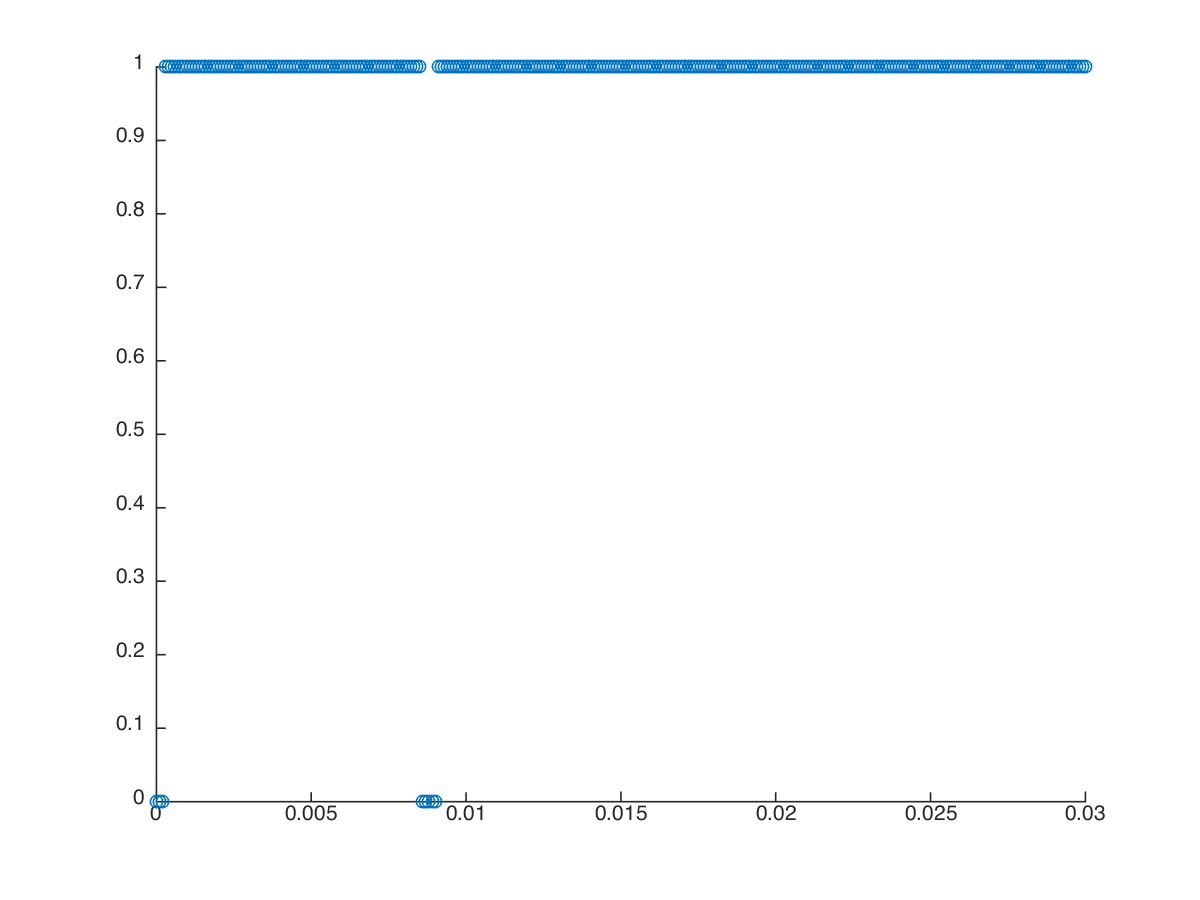
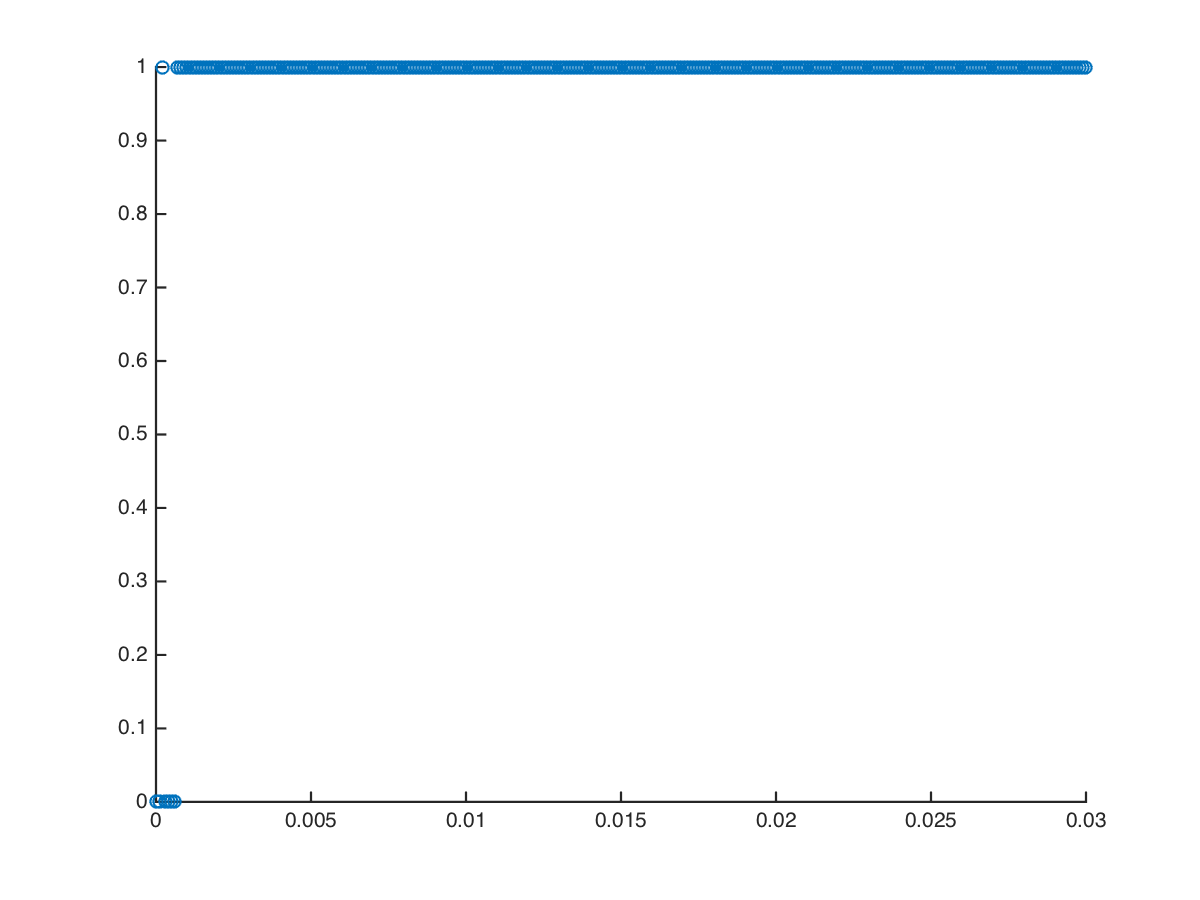
Added script for simulating a heterogeneous network and analyzing it. Calculates fano factor, coefficient of variation and interspike interval distribution.

diff --git a/dev.m b/dev.m
@@ -25,6 +25,10 @@ t = 0:stepsize:T;
 % xp = cos(t)*0.05;
 % xp = xp';
 
+% constant input
+x = ones(N, 1) * 0.0005;
+xp = zeros(N, 1);
+
 % random walk input
 x = abs(cumsum(randn(N, 1)));
 x = x * 0.0005;
@@ -114,11 +118,11 @@ plot(t, x)
 plot(t, xhat)
 %scatter(t, o)
 legend('V', 'x', 'xhat')
-print('sing_F1_g','-dpng')
+% print('sing_F1_g','-dpng')
 
 figure
 scatter(t, o)
-print('sing_F2_g','-dpng')
+% print('sing_F2_g','-dpng')
 
 figure
 hold on
@@ -128,11 +132,11 @@ plot(t, xhat2)
 plot(t, xhat3)
 %scatter(t, o2)
 legend('V2', 'x', 'xhat2', 'xhat3')
-print('sing_F3_g','-dpng')
+% print('sing_F3_g','-dpng')
 
 figure
 scatter(t, o2)
-print('sing_F4_g','-dpng')
+% print('sing_F4_g','-dpng')
 
 %% Homogeneous network of neurons
 
@@ -267,7 +271,7 @@ plot(t, x)
 plot(t, xhat)
 plot(t, xhat2)
 legend('x', 'xhat', 'xhat2')
-print('pop_F1','-dpng')
+% print('pop_F1','-dpng')
 
 % spike train
 figure
@@ -276,7 +280,7 @@ scatter(I, J)
 axis([0 N+1 0 K+1])
 xlabel('time')
 ylabel('neuron')
-print('pop_F2','-dpng')
+% print('pop_F2','-dpng')
 
 % spike train
 figure
@@ -285,4 +289,157 @@ scatter(I, J)
 axis([0 N+1 0 K+1])
 xlabel('time')
 ylabel('neuron')
-print('pop_F3','-dpng')
+% print('pop_F3','-dpng')
+
+%% Heterogeneous network of neurons
+
+% number of neurons in the total population
+K = 100; % half have positive, half have negative weights
+
+% regularization weight
+mu = 1e-6;
+
+% current membrane voltage
+v = zeros(K,1);
+
+% output weight
+w = randn(K, 1) * 0.1;
+
+% right now, we use two ways to calculate voltages, that is why we have two
+% spike trains, voltage and prediction matrices
+%
+% the first way is using the differential equation for voltage (eqn. 15 in
+% the paper). however, it does not work as well as the second way. I don't
+% know why exactly, but I think it has something to do with how we update
+% the voltages once a neuron fires.
+%
+% the second way is using the direct definition for voltage (difference
+% between input and prediction of the population). This method works pretty
+% well.
+
+% THINK: why don't we get the same results from different ways of
+% calculating voltage (V and V2)?
+
+% spike train
+o = zeros(K,N);
+o2 = zeros(K,N);
+
+% v(t)
+V = zeros(K,N);
+V2 = zeros(K,N);
+
+% xhat(t) (prediction)
+xhat = zeros(K,1);
+xhat2 = zeros(K,1);
+
+% this expression is used multiple times in updates; it determines how much
+% one spike changes the voltage.
+reset_amount = (w*w' + mu*eye(K));
+
+for i = 2:N
+    % current xhat. we need this for the second voltage update method.
+    xhatc = xhat2(i-1);
+    
+    % if we update all neurons at the same time and let all the neurons
+    % that exceed threshold fire, we get synchronous firing. If a neuron
+    % fires, it should reset its own voltage and others because now the 
+    % network makes a better prediction.
+    % in other words, to get asynchronous spiking, we need to let only a 
+    % single neuron fire at one time, and update the voltages after each
+    % spike.
+    % in the paper, they also mention adding noise to voltages will make
+    % them fire asynchronously but we still need to fire one spike at a
+    % time. Our simulations so far show that we don't need to add noise.
+    
+    % try firing K times (K is arbitrary here, but it makes sense to make 
+    % it as large as the number of neurons)
+    for dt = 1:K 
+        % ----------------------------------------------------------------
+        % Voltage Update Method 1
+        % membrane voltage update equation
+        dv = -v + (w * (x(i-1) + xp(i-1))) - (reset_amount*o(:, i-1));
+        v = v + (stepsize * dv);
+        V(:,i) = v;
+        
+        % fire a single neuron, the one with maximum difference
+        diff = (V(:,i) / stepsize) - diag(0.5 * (reset_amount));
+        % pick all the neurons with maximum voltage
+        if max(diff) > 0
+            maxk = find(diff==max(diff));
+            % pick one randomly and fire
+            k = maxk(randi(numel(maxk)));
+            o(k, i) = 1;
+            % update prediction
+            % WARNING: I am not sure if this is the right way to reset!
+            v = v - (stepsize * reset_amount(:,k));
+        end
+        % ----------------------------------------------------------------
+        
+        % ----------------------------------------------------------------
+        % Voltage Update Method 2
+        % second way of calculating voltage (below Eqn. 14 in the paper)
+        % the second term is mu*o_bar. o_bar is given below eqn. 6 in the
+        % paper
+        V2(:,i) = w*(x(i) - xhatc) - (mu * exp(-t(i)) * o2(:,1:i) * exp(t(1:i))');
+        
+        % NOTE: this does not prevent a neuron from firing multiple times
+        % in one step (of course that is not possible, but it will try to
+        % fire). this does not seem to be a problem though.
+        
+        % fire a single neuron, the one with maximum difference
+        diff = (V2(:,i) / stepsize) - diag(0.5 * (w*w' + (mu*eye(K))));
+        % pick all the neurons with maximum voltage
+        if max(diff) > 0
+            maxk = find(diff==max(diff));
+            % pick one randomly and fire
+            k = maxk(randi(numel(maxk)));
+            o2(k, i) = 1;
+            % update prediction
+            dxhatc = -xhatc + w(k);
+            xhatc = xhatc + (stepsize * dxhatc);
+        end
+        % ----------------------------------------------------------------
+        
+    end
+    
+    % calculate prediction 
+    xhat(i) = exp(-t(i)) * (stepsize * (w' * o(:, 1:i) * exp(t(1:i))'));
+    xhat2(i) = exp(-t(i)) * (stepsize * (w' * o2(:, 1:i) * exp(t(1:i))'));
+    
+    % yet another way to calculate the prediction is to 
+    % discretize the differential equation xhat' = -xhat + w*o
+    % it gives the same prediction with the direct way of calculating
+    % predictions
+    % dxh = -xh + w'*o(:, i);
+    % xh = xh + (stepsize * dxh);
+    % xhat2(i) = xh;
+    
+    
+end
+
+figure
+hold on
+plot(t, x)
+plot(t, xhat)
+plot(t, xhat2)
+legend('x', 'xhat', 'xhat2')
+% print('pop_F1','-dpng')
+
+% spike train
+figure
+[I,J] = find(o'>0);
+scatter(I, J)
+axis([0 N+1 0 K+1])
+xlabel('time')
+ylabel('neuron')
+% print('pop_F2','-dpng')
+
+% spike train
+figure
+[I,J] = find(o2'>0);
+scatter(I, J)
+axis([0 N+1 0 K+1])
+xlabel('time')
+ylabel('neuron')
+% print('pop_F3','-dpng')
+

diff --git a/simulate_heterogeneous_network.m b/simulate_heterogeneous_network.m
@@ -1,0 +1,74 @@
+function [V, spike_train, xhat] = simulate_heterogeneous_network(T, stepsize, x, K, mu, w)
+% K: number of neurons in the total population
+% mu: regularization weight
+% T: simulation time (in seconds)
+% stepsize: step size (in seconds)
+
+% number of time points
+N = (T/stepsize)+1;
+
+% time input
+t = 0:stepsize:T;
+
+% membrane voltage v(t)
+V = zeros(K,N);
+
+% spike train
+spike_train = zeros(K,N);
+
+% xhat(t) (prediction)
+xhat = zeros(K,1);
+
+if nargin < 6 % w is not provided
+    % randomly initialize output weight
+    w = randn(K, 1) * 0.1;
+end
+
+for i = 2:N
+    % current xhat. we need this for the second voltage update method.
+    xhatc = xhat(i-1);
+    
+    % if we update all neurons at the same time and let all the neurons
+    % that exceed threshold fire, we get synchronous firing. If a neuron
+    % fires, it should reset its own voltage and others because now the 
+    % network makes a better prediction.
+    % in other words, to get asynchronous spiking, we need to let only a 
+    % single neuron fire at one time, and update the voltages after each
+    % spike.
+    % in the paper, they also mention adding noise to voltages will make
+    % them fire asynchronously but we still need to fire one spike at a
+    % time. Our simulations so far show that we don't need to add noise.
+    
+    % try firing K times (K is arbitrary here, but it makes sense to make 
+    % it as large as the number of neurons)
+    for dt = 1:K 
+        
+        % Voltage Update (below Eqn. 14 in the paper)
+        % the second term is mu*o_bar. o_bar is given below eqn. 6 in the
+        % paper
+        V(:,i) = w*(x(i) - xhatc) - (mu * exp(-t(i)) * spike_train(:,1:i) * exp(t(1:i))');
+        
+        % NOTE: this does not prevent a neuron from firing multiple times
+        % in one step (of course that is not possible, but it will try to
+        % fire). this does not seem to be a problem though.
+        
+        % fire a single neuron, the one with maximum difference
+        diff = (V(:,i) / stepsize) - diag(0.5 * (w*w' + (mu*eye(K))));
+        % pick all the neurons with maximum voltage
+        if max(diff) > 0
+            maxk = find(diff==max(diff));
+            % pick one randomly and fire
+            k = maxk(randi(numel(maxk)));
+            spike_train(k, i) = 1;
+            % update prediction
+            dxhatc = -xhatc + w(k);
+            xhatc = xhatc + (stepsize * dxhatc);
+        end
+        
+    end
+    
+    % calculate prediction 
+    xhat(i) = exp(-t(i)) * (stepsize * (w' * spike_train(:, 1:i) * exp(t(1:i))'));
+    
+end
+end

diff --git a/analyze_network.m b/analyze_network.m
@@ -1,0 +1,71 @@
+% simulation time (in seconds)
+T = 0.03;
+% step size
+stepsize = 0.1*(1/1000); % 0.1 msecs
+% number of time points
+N = (T/stepsize)+1;
+% time input
+t = 0:stepsize:T;
+
+% number of neurons
+K = 100;
+% regularization weight
+mu = 1e-6;
+
+%%
+
+runs = 100;
+rate_mean = zeros(K, runs);
+isi = cell(K, 1);
+
+% simulate with fixed decoding weights
+w = randn(K, 1) * 0.1;
+
+for r = 1:runs
+    r
+    % random walk input
+    x = abs(cumsum(randn(N, 1)));
+    x = x * 0.0005;
+    x = smooth(x, 50);
+    dd
+    % simulate network
+    [V, spike_train, xhat] = simulate_heterogeneous_network(T, stepsize, x, K, mu, w);
+    
+    rate_mean(:, r) = sum(spike_train, 2) ./ T;
+    for k = 1:K
+        spike_time = find(spike_train(k, :));
+        spike_count = numel(spike_time);s
+        isi{k} = [isi{k} (spike_time(2:spike_count) - spike_time(1:(spike_count-1)))];
+    end
+end
+
+% firing rate mean, variance and fano factor
+rm = mean(rate_mean, 2);
+rv = var(rate_mean, 0, 2);
+fano = rv ./ rm;
+figure
+histogram(fano)
+
+% isi mean, std. dev. and coefficient of variation
+isim = cellfun(@mean, isi); 
+isis = cellfun(@std, isi); 
+cv = isis ./ isim;
+figure 
+histogram(cv)
+
+% figure
+% hold on
+% plot(t, x)
+% plot(t, xhat)
+% legend('x', 'xhat')
+% 
+% figure
+% [I,J] = find(spike_train'>0);
+% scatter(I, J)
+% axis([0 N+1 0 K+1])
+% xlabel('time')
+% ylabel('neuron')
+
+%%
+% why simulate multiple runs? 
+% simulate a single long trial!
